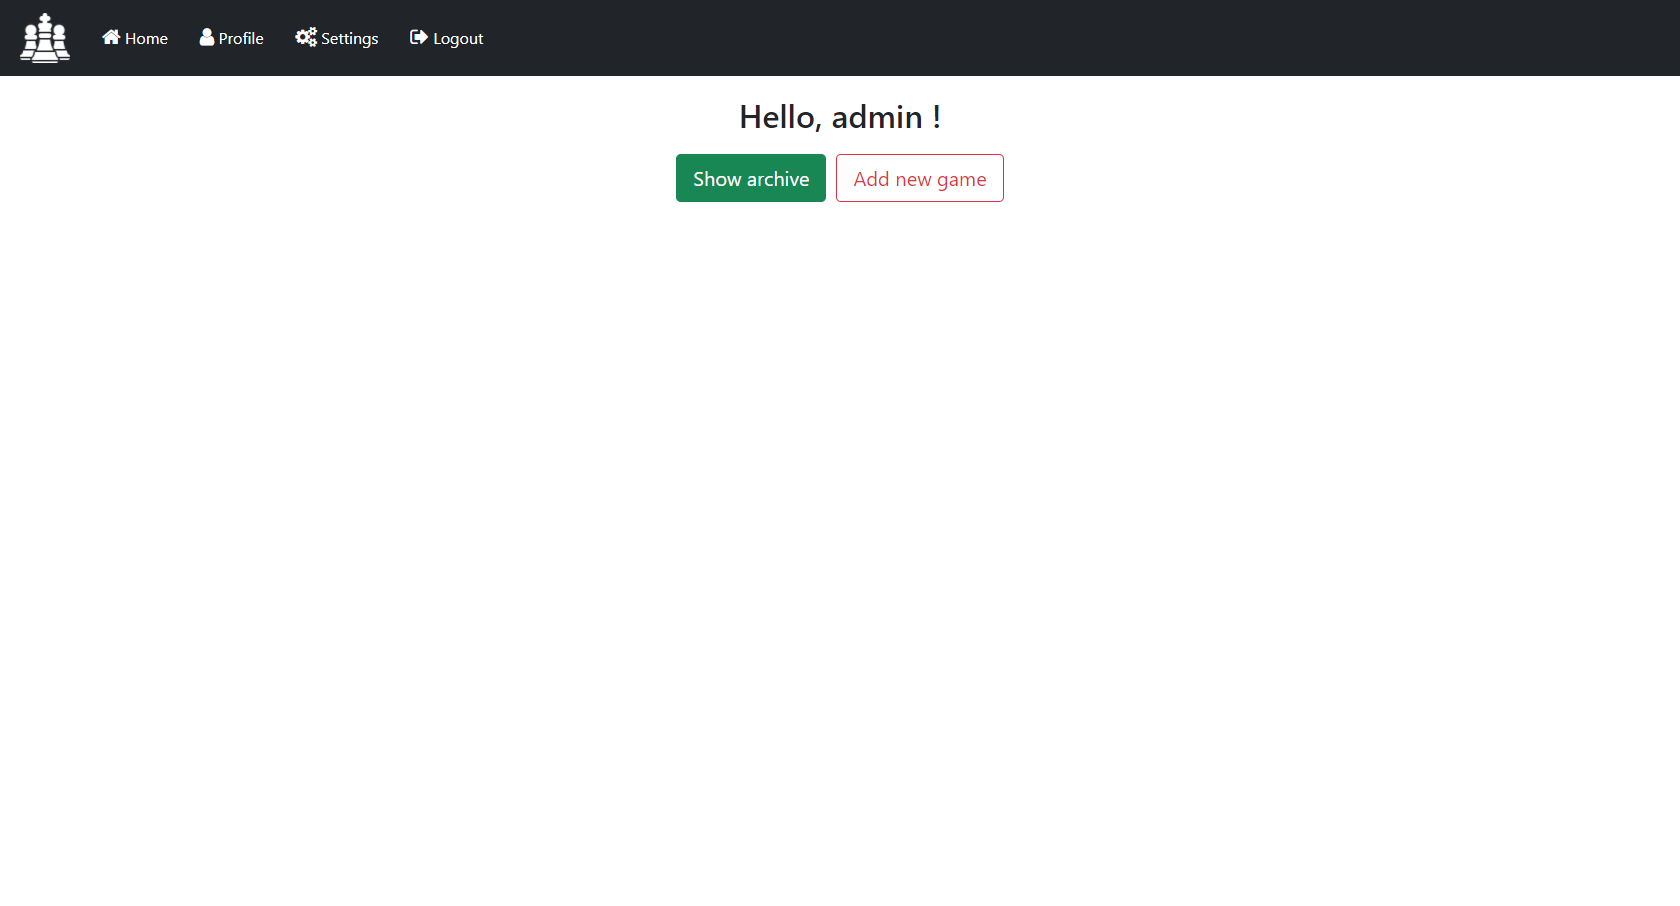
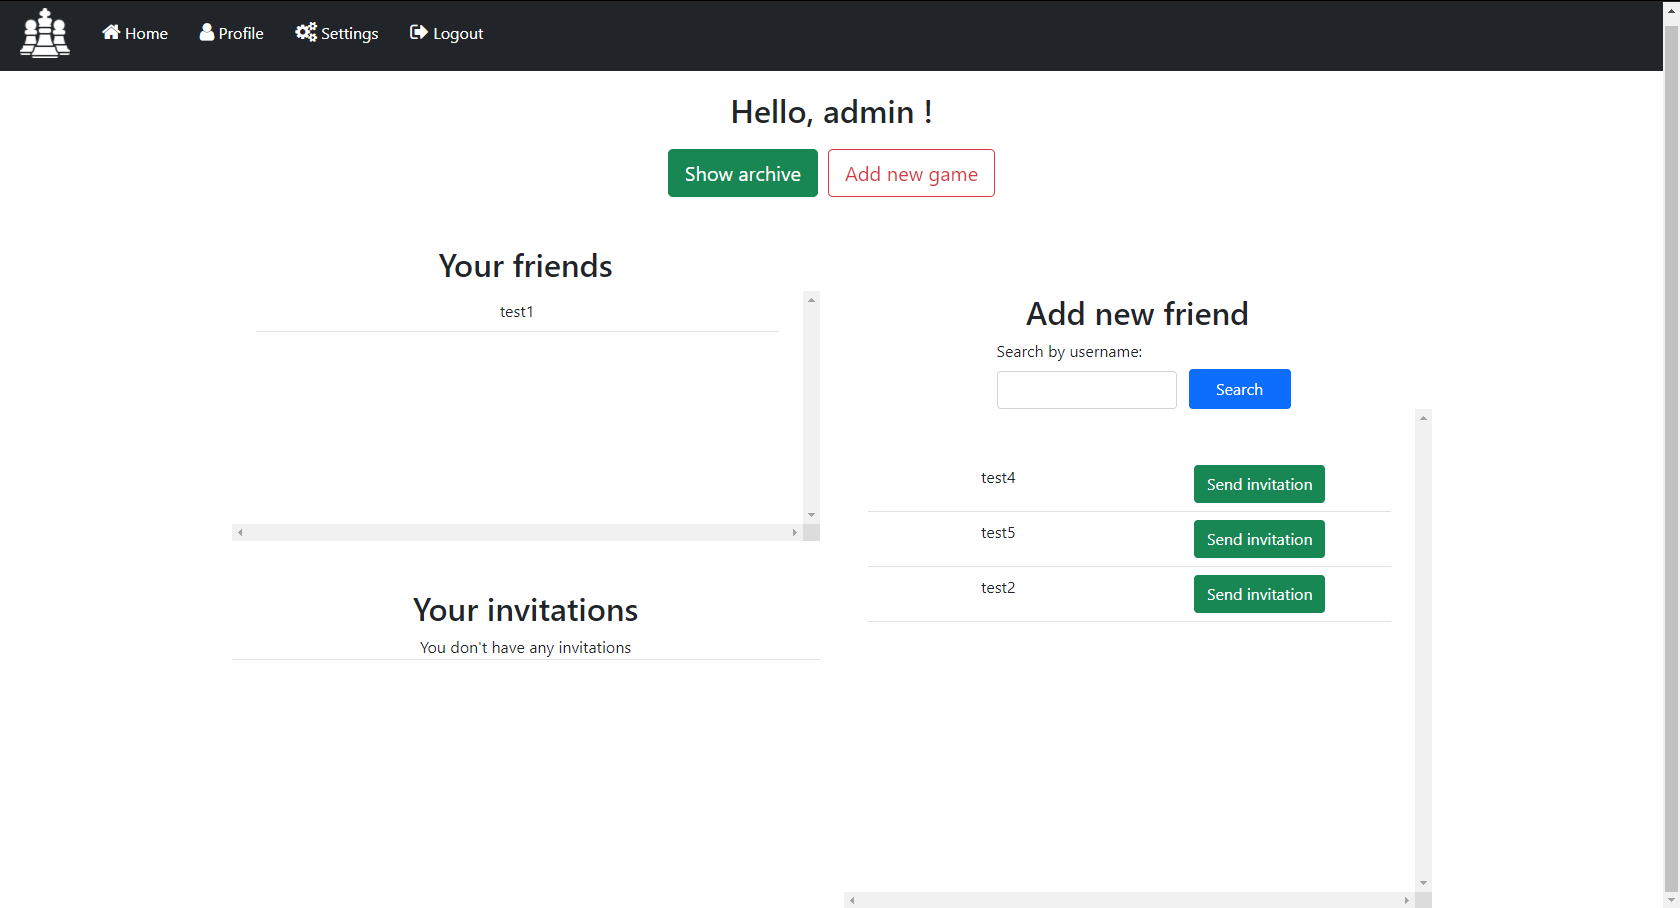
readme update

diff --git a/README.MD b/README.MD
@@ -21,20 +21,22 @@ Projekt jest aplikacją webową, która obsługuje bazę danych dla archiwum par
 4. Szczegóły_gracza - tabela zbierająca informacje na temat gracza aktualne w danej partii.
 5. Ruchy - tabela informująca o ruchach w partii.
 6. Gracze - tabela zbierająca informacje o wprowadzonych graczach partii. Tabela zbiera w jedną tabelę wszystkich graczy wprowadzonych przez wszystkich użytkowników systemu
-
+7. Znajomi - tabela zawierająca informacje na temat listy znajomych każdego użytkownika
+8. Zaproszenia - tabela gromadząca wszystkie oczekujące zaproszenie do dołączenia do grona znajomych (oczekują tam wszystkie zaproszenia które nie zostały ani zaakceptowane ani odrzucone)
 
 
 ## Przegląd aplikacji
 
-1. Użytkownik niezalogowany ma jedynie możliwość zalogowania się lub założenia konta
+1. Użytkownik niezalogowany ma jedynie możliwość zalogowania się lub założenia konta. Pokazany widok można znaleźć w kodzie tutaj:
+https://github.com/Kamil153/chessarchive/blob/0fc1606e74d173583c63559b3cf16d01bc774cca/archive/templates/home.html#L21
 
    ![not_logged](screens/not_logged.png)
 
-2. Użytkownik może zalogować się...
+2. Użytkownik może zalogować się. Ta funkcjonalność (oraz pozostałe funkcjonalności dotyczące rejestracji, resetowania hasła) została zaimplementowana tutaj: https://github.com/Kamil153/chessarchive/tree/master/templates/registration
 
    ![log_in](screens/log_in.png)
 
-3. ...lub założyć nowe konto
+3. Może również założyć nowe konto
 
    ![sign_up](screens/sign_up.png)
 
@@ -42,23 +44,40 @@ Projekt jest aplikacją webową, która obsługuje bazę danych dla archiwum par
 
    ![reset](screens/reset.png)
 
-5. Po zalogowaniu użytkownik widzi stronę domową (administrator ma dodatkowe pole "Settings", którego nie widzi każdy inny użytkownik bez uprawnień)
+5. Po zalogowaniu użytkownik widzi stronę domową (administrator ma dodatkowe pole "Settings", którego nie widzi każdy inny użytkownik bez uprawnień).
+   Widok html implementujacy stronę domową można znaleźć tutaj: https://github.com/Kamil153/chessarchive/blob/master/archive/templates/home.html
+   Obsługa tego i innych widoków została zaimplementowana w pliku views.py (https://github.com/Kamil153/chessarchive/blob/master/archive/views.py)
 
    ![home](screens/home.png)
 
 6. Użytkownik może edytować informacje takie jak adres email oraz nazwa użytkownika. Może również zmienić hasło (zostanie przeniesiony na widok nr 4)
-
+   https://github.com/Kamil153/chessarchive/blob/master/archive/templates/profile.html
+   https://github.com/Kamil153/chessarchive/blob/0fc1606e74d173583c63559b3cf16d01bc774cca/archive/views.py#L25
+   
    ![edit](screens/edit.png)
 
 7. Każdy zalogowany użytkownik ma opcję dodania nowej partii do swojej bazy
-
+   https://github.com/Kamil153/chessarchive/blob/master/archive/templates/add_game.html
+   https://github.com/Kamil153/chessarchive/blob/0fc1606e74d173583c63559b3cf16d01bc774cca/archive/views.py#L86
    ![add_view](screens/add_view.png)
 
 8. Może również zobaczyć całe swoje archiwum
-
+   https://github.com/Kamil153/chessarchive/blob/master/archive/templates/list.html
+   https://github.com/Kamil153/chessarchive/blob/0fc1606e74d173583c63559b3cf16d01bc774cca/archive/views.py#L35
    ![archive_view](screens/archive_view.png)
 
 9. Ma też dostęp do dokładniejszych informacji każdej z partii
-
+   https://github.com/Kamil153/chessarchive/blob/master/archive/templates/details.html
+   https://github.com/Kamil153/chessarchive/blob/0fc1606e74d173583c63559b3cf16d01bc774cca/archive/views.py#L149
    ![details](screens/details.png)
 
+10. Funkcjonalność bazy danych w programie pgAdmin4
+   ![baza1](screens/baza1.png)
+   ![baza2](screens/baza2.png)
+   ![baza3](screens/baza3.png)
+   ![baza4](screens/baza4.png)
+   ![baza5](screens/baza5.png)
+   ![baza6](screens/baza6.png)
+   ![baza7](screens/baza7.png)
+   ![baza8](screens/baza8.png)
+   ![baza9](screens/baza9.png)
